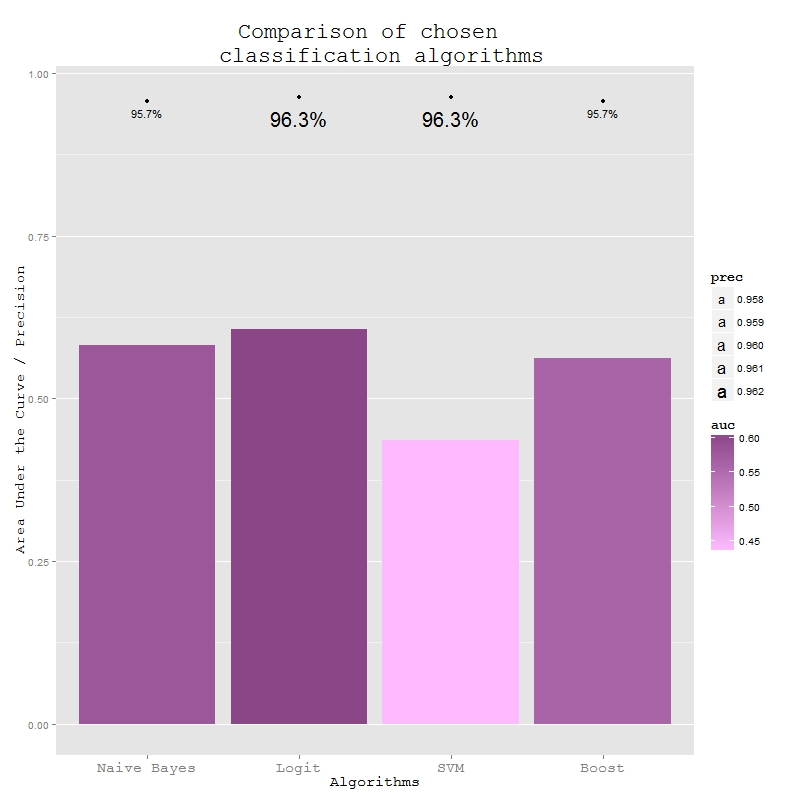
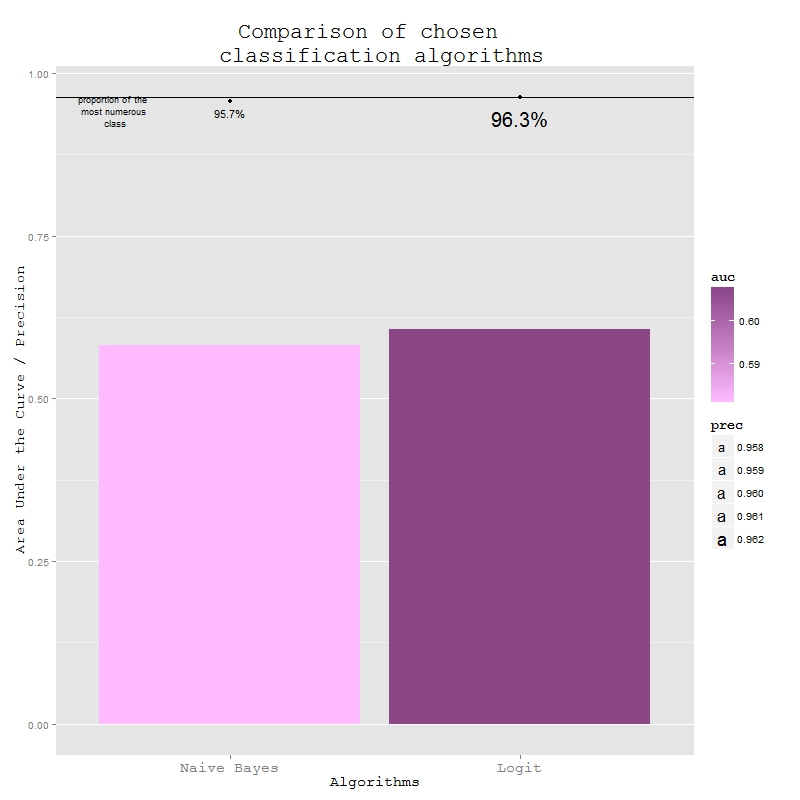
added hline

diff --git a/README.md b/README.md
@@ -42,7 +42,7 @@ chooseClassifier( class~., train, test, rep(1,8) )
 We can specify which classifier should be calculated and printed.
 
 ```{Ruby}
-chooseClassifier( class~., train, test, c(1,0,1,0,1,0,1,0) )
+chooseClassifier( class~., train, test, c(1,0,1,0,0,0,0,0) )
 ```
 
 ![Example 2](https://raw.githubusercontent.com/sandersone/twd1/master/Rplot01.jpeg)
